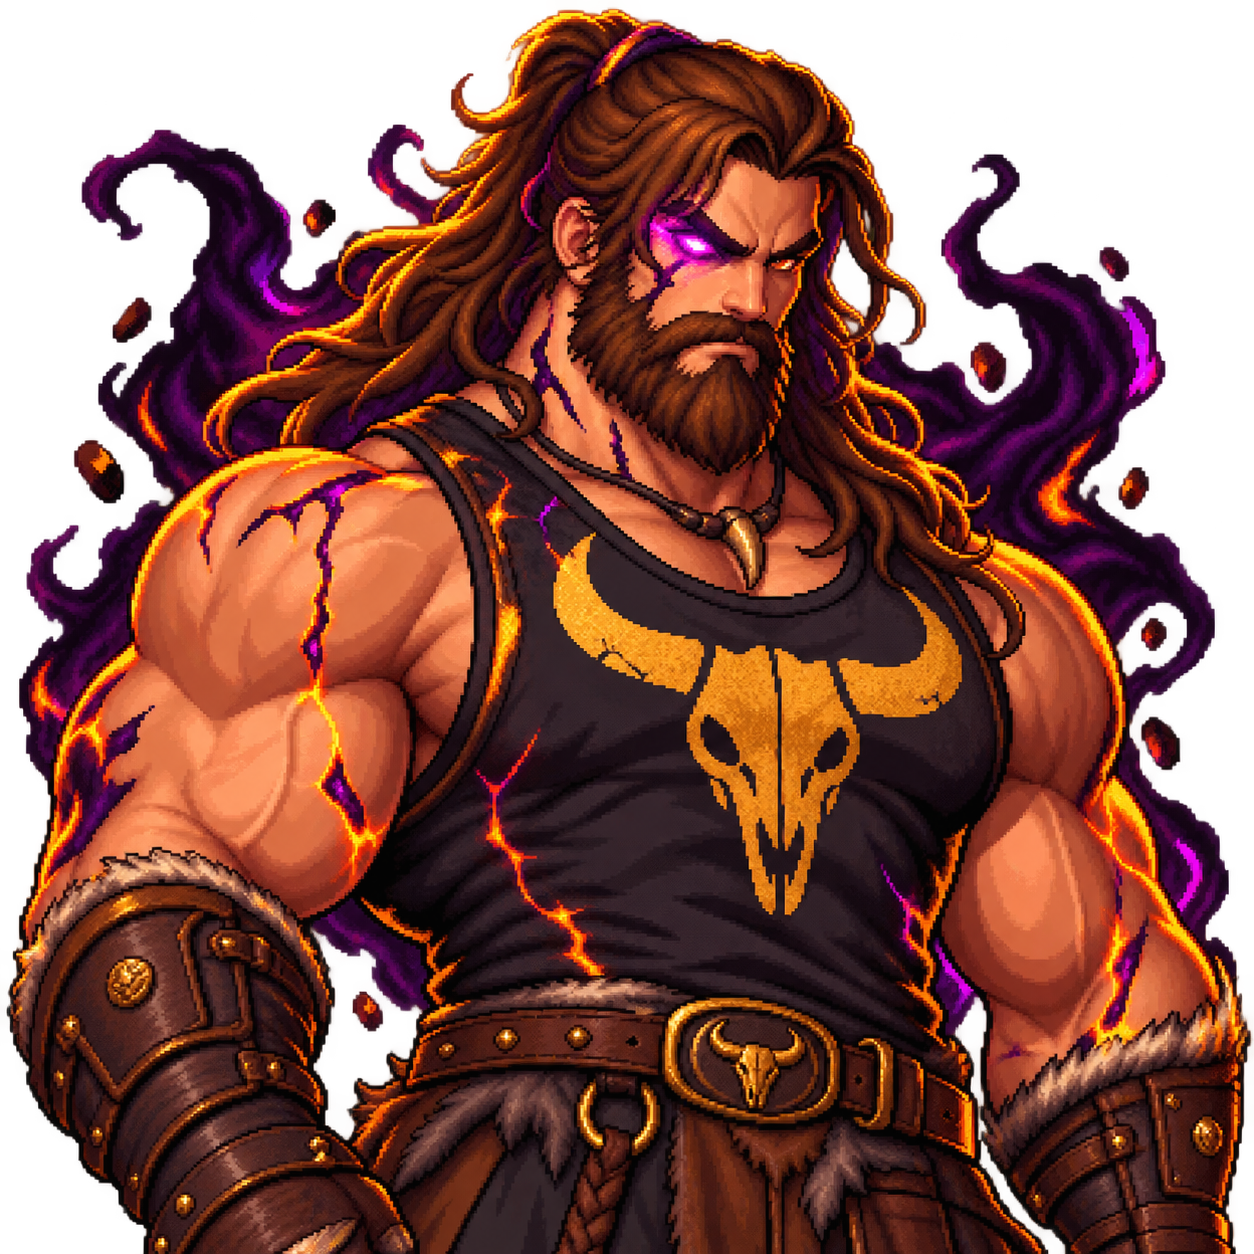
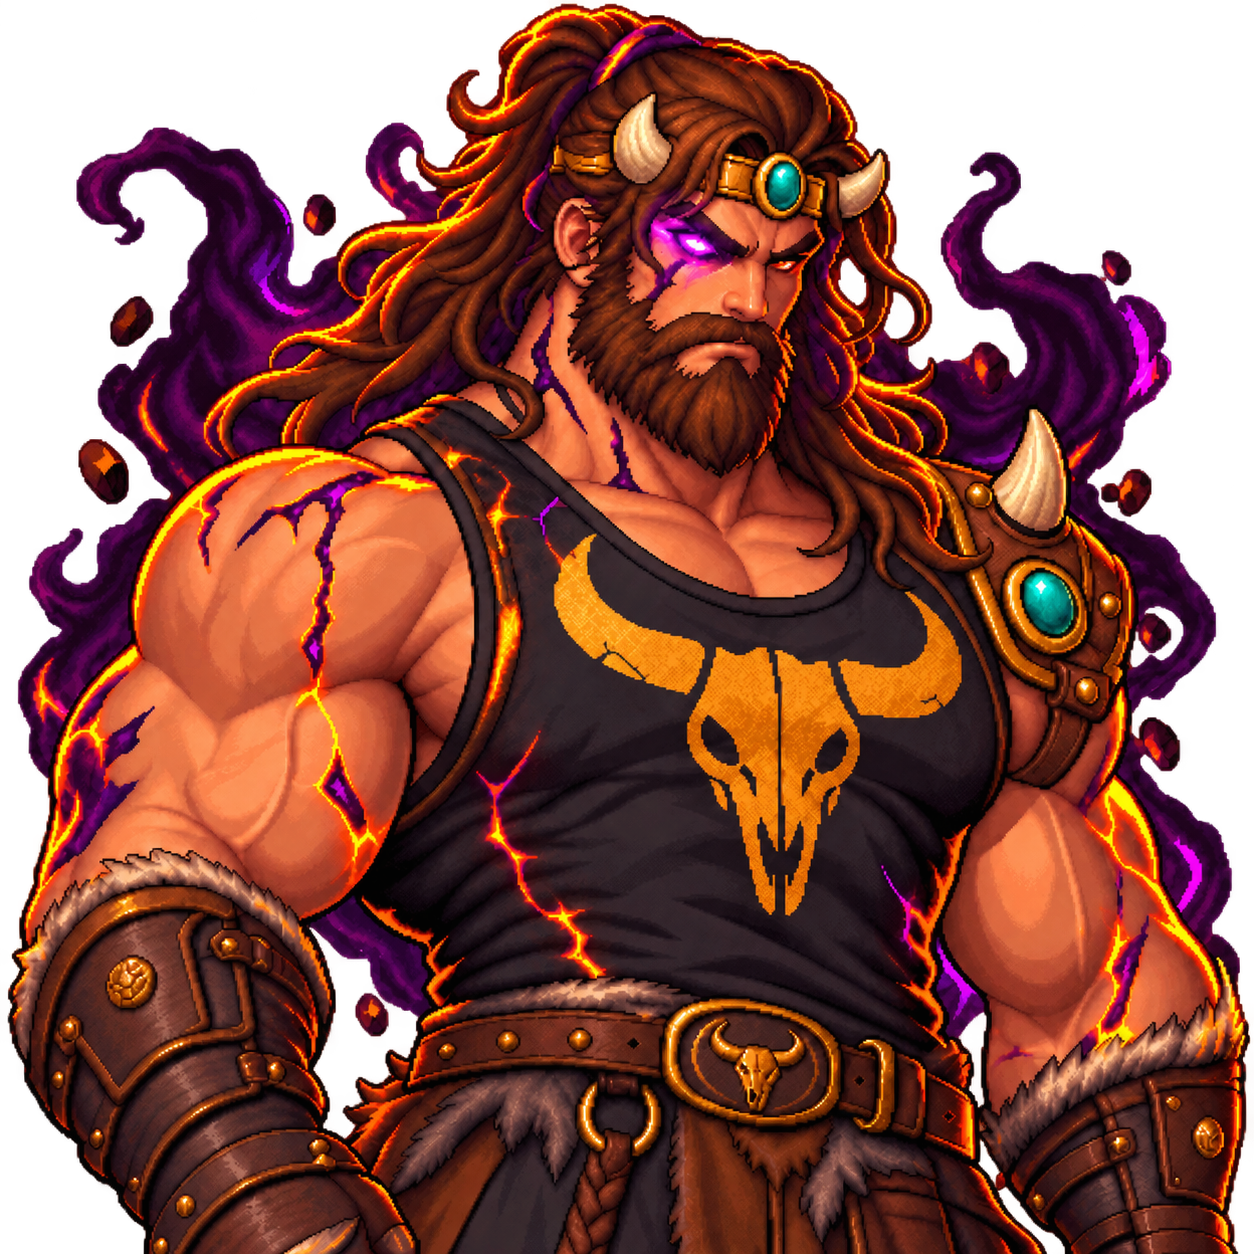
fix(PS-135): correggi evil_portrait.png di Magno per ripristinare gli accessori identitari
Il master Evil di Magno perdeva copricapo cornuto e spallaccio con corna
d'avorio (coperti/sostituiti) e aggiungeva una collana non prevista dal
prompt approvato. Sostituiti master HD e derivato runtime alla stessa
posizione già cablata nella Boss Intro; capelli lunghi e canotta nera,
già previsti dal prompt, restano invariati. Approvazione percettiva del
proprietario ricevuta; run-milestone-checks.ps1 -Profile Relevant
(22/22 PASS) conferma nessuna regressione sui derivati del cast.

Changed region(s): [[0.0, 0.0, 1.0, 1.0], [0.4043, 0.5909, 0.4354, 0.622]]

diff --git a/docs/cards/5_completed/PS-135-correggi-evil-portrait-magno-accessori-persi.md b/docs/cards/5_completed/PS-135-correggi-evil-portrait-magno-accessori-persi.md
@@ -1,0 +1,174 @@
+---
+id: PS-135
+titolo: Correggi evil_portrait.png di Magno per ripristinare gli accessori identitari
+tipo: art
+area: arte
+stato: COMPLETATO
+priorita: media
+dipende_da: []
+origine:
+creato: 2026-09-08
+aggiornato: 2026-09-08
+---
+
+# PS-135 — Correggi evil_portrait.png di Magno per ripristinare gli accessori identitari
+
+## Contesto
+
+L'agente `direttore-artistico`, invocato su richiesta del proprietario per
+revisionare i tre file HD di Magno in `assets/art/characters/magno/hd/`
+(`portrait.png`, `poses.png`, `evil_portrait.png`), ha approvato `portrait.png`
+e `poses.png` ma segnalato `evil_portrait.png` come non coerente con gli altri
+due file dello stesso personaggio.
+
+Confronto diretto con `portrait.png`/`poses.png`:
+
+- il copricapo cornuto con gemma turchese — l'elemento identitario più forte
+  del personaggio — è assente, coperto dai capelli;
+- lo spallaccio con due corna d'avorio e gemma in castone dorato è sostituito
+  da un pauldron generico (cuoio scuro invecchiato, borchie tonde, disco
+  dorato, cintura di pelliccia), senza alcun motivo bovino;
+- è presente una collana con ciondolo ad artiglio/dente non prevista dal
+  prompt registrato in `ASSET-MANIFEST.md`.
+
+Capelli lunghi/mossi e canotta nera **non** sono un problema: sono
+esplicitamente previsti dal prompt approvato in `ASSET-MANIFEST.md`
+(riga `evil_magno`, sezione Evil) e vanno mantenuti.
+
+Sui fratelli visivi (Alea, Zat, Bea) la regola già scritta nel manifest —
+"preservare acconciatura, corporatura, colori dell'abito e accessori del
+personaggio; applicare una sola grammatica Evil sopra" — è rispettata alla
+lettera: solo Magno perde accessori non menzionati nel prompt. Il risultato
+oggi si legge come un guerriero fantasy generico, non come "Magno corrotto".
+
+Questa è una correzione di un master già promosso (hash registrati in
+`ASSET-MANIFEST.md`, righe 281 e 250), non una nuova integrazione: il derivato
+runtime sostituisce il file già consumato allo stesso percorso
+(`magno/generated/evil_portrait.png`), già cablato nella Boss Intro. Non serve
+quindi una card di integrazione gemella (PS-090 non si applica: non è arte
+nuova da agganciare, è una correzione che rientra nel percorso già esistente).
+
+## Comportamento atteso
+
+`evil_portrait.png` di Magno, confrontato fianco a fianco con `portrait.png` e
+`poses.png`, si legge immediatamente come "stesso personaggio, versione
+corrotta": stessa identità a colpo d'occhio, con solo la grammatica Evil
+(fumo, occhio, crepe, rim light) applicata sopra.
+
+## Criteri di accettazione
+
+- [x] Il copricapo cornuto con gemma turchese è presente e riconoscibile
+      nella nuova versione (anche solo parzialmente visibile tra i capelli
+      lunghi, come tell identitario).
+- [x] Lo spallaccio presenta le due corna d'avorio e la gemma in castone
+      dorato coerenti con `portrait.png`/`poses.png`, non il pauldron
+      generico attuale.
+- [x] La collana ad artiglio/dente non documentata nel prompt è rimossa.
+- [x] Capelli lunghi/mossi e canotta nera restano, come da prompt approvato
+      in `ASSET-MANIFEST.md`.
+- [x] Fumo prugna, occhio magenta-viola, crepe energetiche e rim light
+      restano applicati con lo stesso linguaggio già in uso sugli altri Evil
+      del cast (nessuna regressione sulla grammatica Evil già approvata).
+- [x] Il nuovo master HD (`magno/hd/evil_portrait.png`, `1254x1254`) e il
+      derivato runtime (`magno/generated/evil_portrait.png`, `256x256`)
+      sostituiscono i file esistenti agli stessi percorsi, con hash SHA-256
+      ricalcolati.
+- [x] `ASSET-MANIFEST.md` (`assets/art/characters/ASSET-MANIFEST.md`, righe
+      Magno nelle tabelle Evil e master/derivato) è aggiornato con i nuovi
+      byte e hash SHA-256.
+
+## Ambito
+
+- `assets/art/characters/magno/hd/evil_portrait.png`.
+- `assets/art/characters/magno/generated/evil_portrait.png`.
+- `assets/art/characters/ASSET-MANIFEST.md` (righe Magno pertinenti).
+
+Non toccare:
+
+- `magno/hd/portrait.png`, `magno/hd/poses.png` e i rispettivi derivati, già
+  approvati;
+- gli asset degli altri personaggi del cast;
+- il cablaggio della Boss Intro o qualunque scena/script (il derivato
+  sostituisce il file già consumato allo stesso percorso, nessun wiring
+  nuovo).
+
+## Verifica
+
+- Art review: confronto diretto con `portrait.png`/`poses.png` e con
+  `alea/hd/evil_portrait.png` come riferimento di fedeltà normal→evil, più
+  manifest, come da convenzione PS-090.
+- `magno/generated/evil_portrait.png` combacia col pattern
+  `assets/art/characters/*/generated/*` di `tools/milestone-test-map.json`
+  (i master in `hd/` non lo innescano, il derivato sì): non è una card senza
+  smoke GUT. `.\tools\run-milestone-checks.ps1 -Milestone PS-135 -Profile
+  Relevant` → `regression=22/22 status=PASS`, nessun `SCRIPT ERROR`/`FATAL
+  EXCEPTION` nei log (`%TEMP%\il-gioco-verification\20260908-214313-PS-135`).
+
+## Gate manuali
+
+Runtime Windows, validazione statica APK e runtime fisico Pixel 9 non sono
+pertinenti: la card sostituisce i byte di un asset già cablato senza modificare
+wiring o logica.
+
+- [x] Approvazione percettiva del proprietario — confronto diretto fianco a
+      fianco con `portrait.png`, `poses.png` e con
+      `alea/hd/evil_portrait.png` come riferimento di fedeltà. La review
+      tecnica dell'agente non sostituisce questa approvazione esplicita.
+
+## Decisioni
+
+- **2026-09-08 — Correzione avviata sugli stessi percorsi.** PS-135 modifica
+  esclusivamente il master Evil di Magno e il suo derivato già cablato;
+  `portrait.png`, `poses.png`, gli altri personaggi e il wiring runtime restano
+  invariati.
+- **2026-09-08 — Candidato prodotto e posto in verifica.** Selezionato l'edit
+  ImageGen `exec-a924d2dd-e49e-4f1f-8a51-f3adae6e9982.png`, seguito dal
+  passaggio `background-extraction`
+  `exec-4d8894d3-ef07-4938-8874-836bbe0d2f2c.png`. La review isolata del
+  derivato a `256x256` conferma la leggibilità dei tell richiesti; la card
+  resta `IN VERIFICA` fino all'approvazione esplicita del proprietario.
+- **2026-09-08 — Approvazione percettiva ricevuta.** Il proprietario ha
+  approvato esplicitamente il candidato con “Perfetto”; PS-135 può quindi
+  passare da `IN VERIFICA` a `COMPLETATO`.
+- **2026-09-08 — Corretta la sezione Verifica: la card innesca smoke GUT.**
+  La prima stesura dichiarava "nessuno smoke GUT" per analogia con PS-090, ma
+  `magno/generated/evil_portrait.png` combacia col pattern
+  `assets/art/characters/*/generated/*` di `tools/milestone-test-map.json` (a
+  differenza dei master in `hd/`, esentati). Eseguito
+  `run-milestone-checks.ps1 -Milestone PS-135 -Profile Relevant`:
+  `regression=22/22 status=PASS`, log senza `SCRIPT ERROR`/`FATAL EXCEPTION`.
+
+- **2026-09-08 — Riferimento di fedeltà normal→evil: `alea/hd/evil_portrait.png`.**
+  Scelto dal direttore-artistico durante la revisione perché applica
+  correttamente la regola già scritta nel manifest (acconciatura, colori
+  abito e accessori identitari preservati, solo grammatica evil sopra).
+- **2026-09-08 — Capelli lunghi e canotta nera restano.** Sono previsti dal
+  prompt approvato in `ASSET-MANIFEST.md` (`evil_magno`); la correzione
+  riguarda solo gli accessori persi (copricapo, spallaccio) e l'aggiunta non
+  documentata (collana), non l'intera direzione dell'Evil.
+- **Aperto — checklist per-personaggio nel manifest.** Il direttore-artistico
+  ha suggerito di aggiungere in `ASSET-MANIFEST.md` (sezione Evil) una riga
+  di checklist esplicita "accessori identitari preservati: sì/no" per
+  personaggio, per evitare che una deviazione intenzionale nel prompt (es.
+  "capelli lunghi") venga letta come autorizzazione implicita a perdere anche
+  accessori non menzionati. Non è un criterio di accettazione di questa card:
+  se il proprietario lo conferma, va aperta una card `chore` separata sul
+  processo di manifest/art review.
+
+## Documenti sincronizzati
+
+- [x] `ASSET-MANIFEST.md` (`assets/art/characters/`): righe Magno aggiornate
+      con i nuovi hash.
+
+## Note
+
+Revisione originale eseguita dall'agente `direttore-artistico` su richiesta
+esplicita del proprietario, confrontando i tre file HD di Magno con i
+fratelli visivi Alea/Zat/Bea e con `docs/characters.md`.
+
+Evidenza di produzione PS-135: master `1254x1254`, SHA-256
[1 lines of base64/hex data omitted]
+derivato `256x256`, SHA-256
[1 lines of base64/hex data omitted]
+I quattro angoli del derivato hanno alpha `0`; nessun test GUT o gate di
+piattaforma è pertinente perché il wiring non è cambiato.

diff --git a/assets/art/characters/ASSET-MANIFEST.md b/assets/art/characters/ASSET-MANIFEST.md
@@ -256,6 +256,41 @@ Alea e Aleo hanno richiesto un passaggio correttivo `background-extraction`:
 rimuovere soltanto il checkerboard chiaro incorporato, preservando soggetto,
 pixel-art, colori, effetti e inquadratura, e produrre alfa reale senza ridisegno.
 
+### Correzione Evil Magno (PS-135, 8 settembre 2026)
+
+Il master Evil di Magno è stato corretto tramite OpenAI ImageGen built-in per
+ripristinare gli accessori identitari già presenti nei master Player, senza
+modificare il percorso consumato dal runtime.
+
+- Origine: edit del master esistente `magno/hd/evil_portrait.png`.
+- Autore: progetto IL GIOCO con assistenza OpenAI ImageGen.
+- Licenza: Licenza del progetto.
+- Input ImageGen effettivi del primo edit: il vecchio Evil come `edit target`;
+  `magno/hd/portrait.png` e `magno/hd/poses.png` come reference di soggetto,
+  costume e accessori; `alea/hd/evil_portrait.png` come reference di stile per
+  la sola grammatica normal-to-Evil.
+- Correzione selezionata: corona con due corna d'avorio e gemma turchese;
+  spallaccio bovino con esattamente due corna d'avorio e gemma turchese in
+  castone dorato; collana ad artiglio rimossa. Capelli lunghi, barba, canotta
+  nera, emblema bovino, fumo prugna, occhio magenta, crepe e rim light ambra
+  sono stati preservati.
+- Traccia output selezionati: `exec-a924d2dd-e49e-4f1f-8a51-f3adae6e9982.png`
+  (edit accessori) -> `exec-4d8894d3-ef07-4938-8874-836bbe0d2f2c.png`
+  (`background-extraction`, rimozione del solo checkerboard incorporato).
+
+Prompt finale normalizzato:
+
+```text
+Use case: precise-object-edit seguito da background-extraction.
+Correggere soltanto gli accessori mancanti del master Evil di Magno: mantenere
+identità, posa, corporatura, capelli lunghi, barba, canotta nera, emblema
+bovino e grammatica Evil; ripristinare la corona cornuta con gemma turchese e
+lo spallaccio con esattamente due corna d'avorio e gemma in castone dorato;
+rimuovere completamente la collana ad artiglio. Preservare composizione,
+pixel-art arcade, crop quadrato e margini. Nel passaggio finale rimuovere solo
+il checkerboard incorporato e produrre alfa reale senza ridisegno o aloni.
+```
+
 ### Trasformazione deterministica
 
 I derivati sono ottenuti con:
@@ -278,7 +313,7 @@ destinato al runtime futuro.
[8 lines of base64/hex data omitted]

diff --git a/docs/cards/README.md b/docs/cards/README.md
@@ -236,3 +236,4 @@ sviluppo: funzionalità, fix, arte, documentazione, tooling e release.
 | [PS-132](./2_to_do/PS-132-derivazione-sprite-sfarina-alea-e-zat.md) | Correggi la derivazione degli sprite di gameplay che sfarina Alea e Zat | fix | arte | PRONTO | media | PS-116 |
 | [PS-133](./3_in_sprint/PS-133-develop-per-lo-sviluppo-main-per-il-rilascio.md) | Adotta develop come branch di sviluppo e main come branch di rilascio | chore | tooling | IN CORSO | alta | — |
 | [PS-134](./3_in_sprint/PS-134-apk-di-release-firmato-e-versionato-al-merge-su-main.md) | Pubblica un APK di release firmato e versionato al merge su main | chore | tooling | IN CORSO | alta | PS-133 |
+| [PS-135](./5_completed/PS-135-correggi-evil-portrait-magno-accessori-persi.md) | Correggi evil_portrait.png di Magno per ripristinare gli accessori identitari | art | arte | COMPLETATO | media | — |
